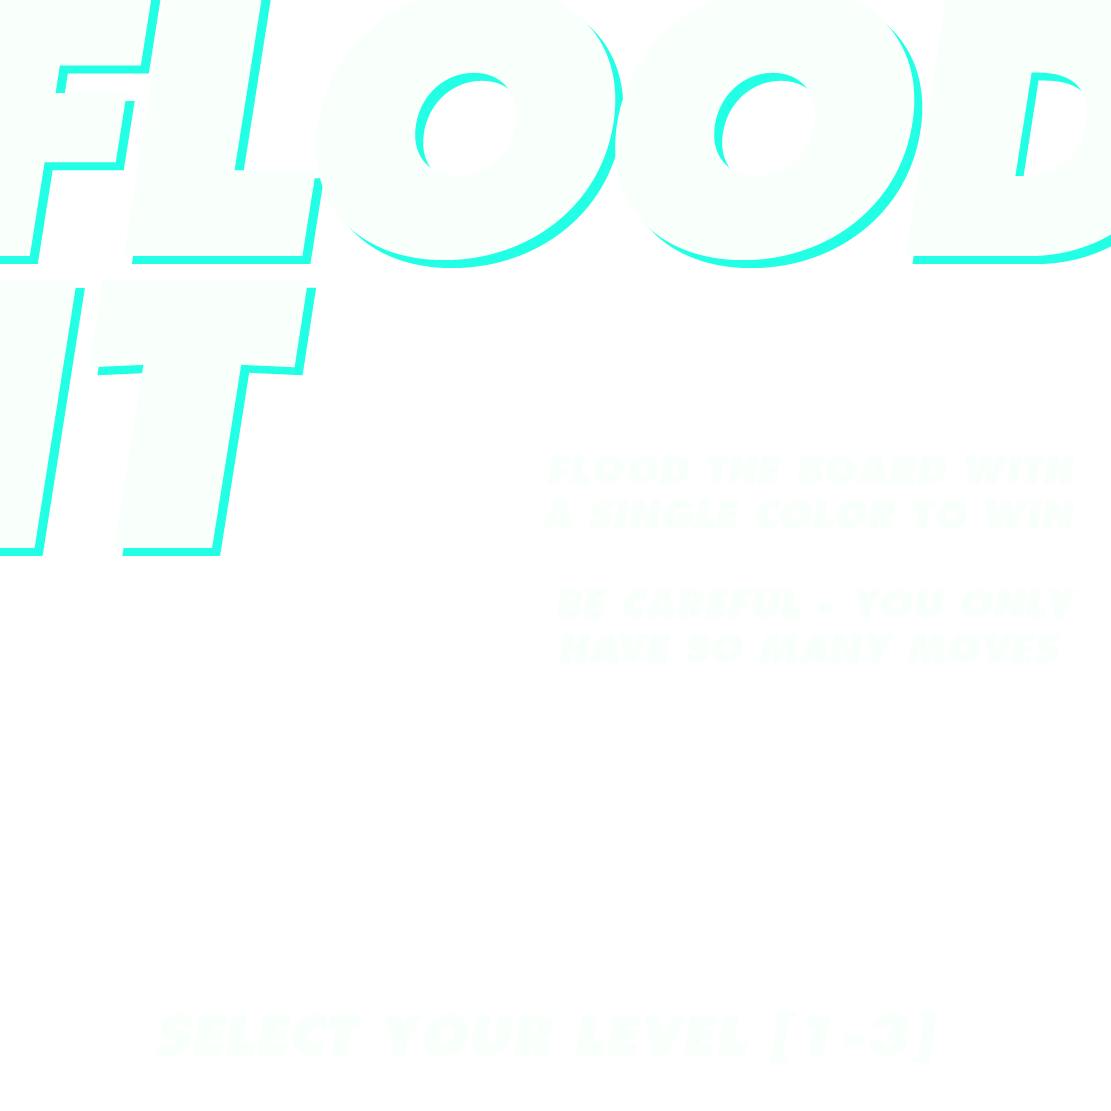
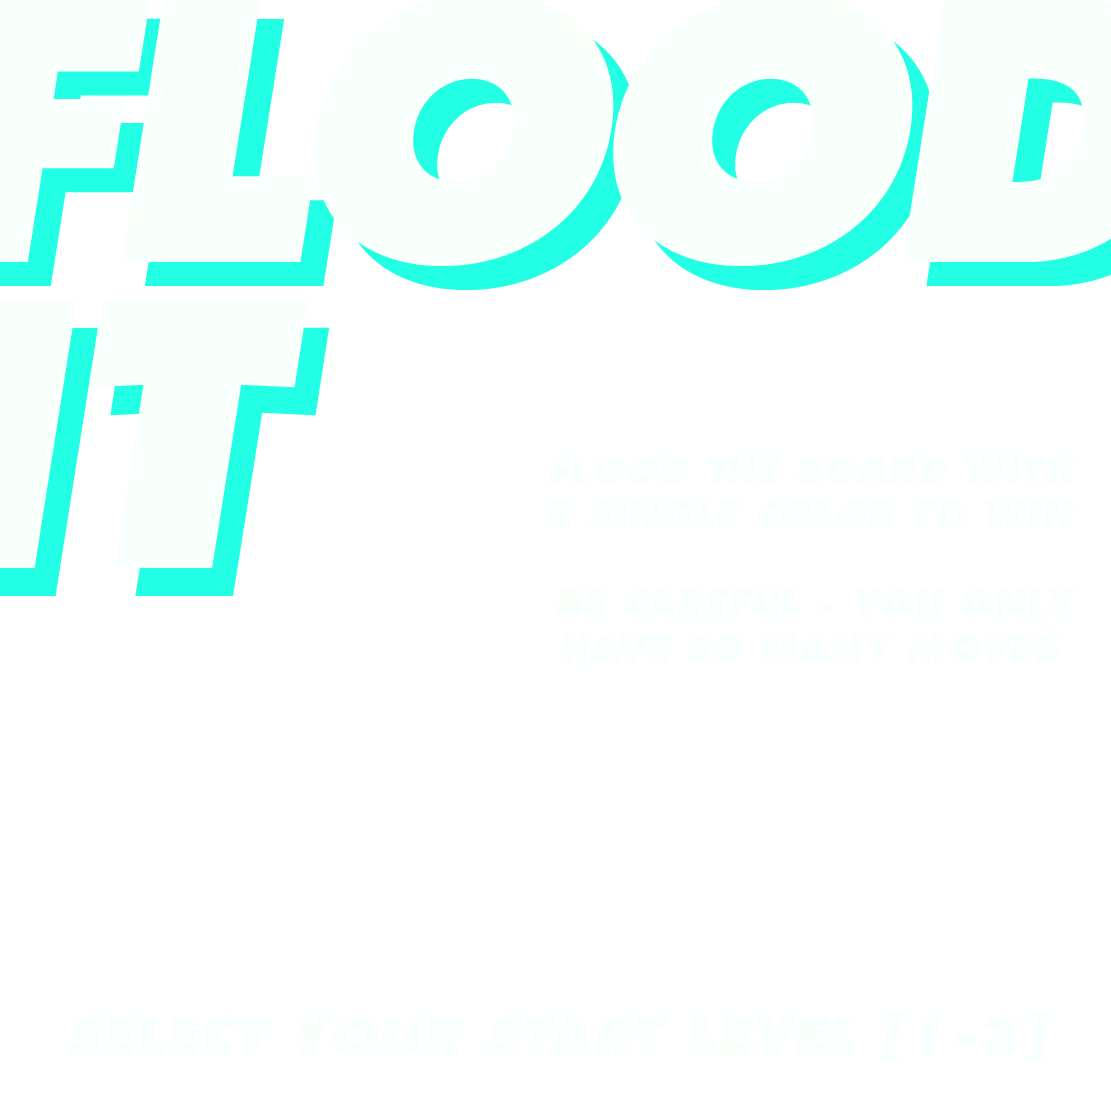
flood it: level termination

diff --git a/interactive/midterm/sketch.js b/interactive/midterm/sketch.js
@@ -3,28 +3,32 @@ var canvasWidth;
 var canvasHeight;
 
 var id = 1;
-var numColors = 6;
-var colors = [];
 var numSquaresPerRow = 13;
 var squares = [];
+var levelMoves;
 var remainingMoves;
 
+var numColors = 6;
+var colors = [];
+var colorsToAdd;
+var addIndex = 0;
+
 var state = 0;
-var startArt = [];
-var floodItArtwork;
-var startArtIndex = 0;
 var scoreOpacity = 255;
 var scoreSpeed = 7;
 
+var floodItArtwork;
+var youWinArtwork;
+var gameOverArtwork;
+
 var playerWins;
+var freeze;
 
 function preload(){
-    var startArtwork1 = loadImage("img/startArtwork-01.png");
-    var startArtwork2 = loadImage("img/startArtwork-02.png");
-    var startArtwork3 = loadImage("img/startArtwork-03.png");
-    var startArtwork4 = loadImage("img/startArtwork-04.png");
-    startArt = [startArtwork1, startArtwork2, startArtwork3, startArtwork4];
     floodItArtwork = loadImage("img/flood-it-overlay.png");
+    youWinArtwork = loadImage("img/you-win.png");
+    youWinArtwork = loadImage("img/you-win.png");
+    gameOverArtwork = loadImage("img/game-over.png");
 }
 
 function setup() {
@@ -32,6 +36,9 @@ function setup() {
     canvasHeight = windowHeight < windowWidth ? windowHeight-100 : windowWidth-100;
     canvasWidth = windowHeight < windowWidth ? windowHeight-100 : windowWidth-100;
     theCanvas = createCanvas(canvasWidth, canvasHeight);
+
+    //
+    colorsToAdd = [color('#D14674'), color('#15FF4C'), color('#C0C0FF'), color('#EDC500'), color('#680050'), color('#3A3A3A'), color('#440808')];
 
     // center canvas
     repositionCanvas();
@@ -96,26 +103,28 @@ function generateColors(){
 
 // when the game starts, play dancing squares animation and wait for the user to press spacebar
 function startScreen(){
-    dancingScreenAnimation();
+    numSquaresPerRow = 30;
+    dancingScreenAnimation(floodItArtwork);
     textSize(25);
     fill(255);
-    startArtIndex += .5;
-    // image(startArt[(Math.floor(startArtIndex)) % 4], 0, 0, canvasWidth, canvasHeight);
-    image(floodItArtwork, 0, 0, canvasWidth, canvasHeight);
+    freeze = false;
     if (keyIsDown(49)){
         numSquaresPerRow = 5;
+        levelMoves = 15;
         remainingMoves = 15;
         createBoard();
         state = 1;
     }
     else if (keyIsDown(50)){
         numSquaresPerRow = 10;
+        levelMoves = 25;
         remainingMoves = 25;
         createBoard();
         state = 1;
     }
     else if (keyIsDown(51)){
         numSquaresPerRow = 15;
+        levelMoves = 30;
         remainingMoves = 30;
         createBoard();
         state = 1;
@@ -123,10 +132,11 @@ function startScreen(){
 }
 
 // recreate the board and redraw it to create dancing animation
-function dancingScreenAnimation(){
+function dancingScreenAnimation(imageName){
     frameRate(7);
     createBoard();
     displaySquares();
+    image(imageName, 0, 0, canvasWidth, canvasHeight);
 }
 
 // ------------------ GAMEPLAY ----------------------------
@@ -205,13 +215,16 @@ function displaySquares() {
 }
 
 function mousePressed(){
-    var col = Math.floor(mouseX / (canvasWidth / numSquaresPerRow) );
-    var row = Math.floor(mouseY / (canvasHeight / numSquaresPerRow) );
-    var color = squares[row][col].color;
-
-    if (flood(color)){
-        remainingMoves--;
-        scoreOpacity = 255;
+    if (!freeze){
+        var col = Math.floor(mouseX / (canvasWidth / numSquaresPerRow) );
+        var row = Math.floor(mouseY / (canvasHeight / numSquaresPerRow) );
+        if (squares[row][col] != undefined){
+            var color = squares[row][col].color;
+            if (flood(color)){
+                remainingMoves--;
+                scoreOpacity = 255;
+            }
+        }
     }
 }
 
@@ -264,12 +277,32 @@ function movesExhausted(){
 // ------------------ POST-GAME ----------------------------
 function endGame(){
     if (playerWins){
-        dancingScreenAnimation();
+        dancingScreenAnimation(youWinArtwork);
+        if (keyIsDown(32)){
+            nextLevel();
+        }
     } else{
-        background(0);
+        playerLost();
     }
 }
 
+function nextLevel(){
+    numSquaresPerRow += 2;
+    levelMoves += 5;
+    remainingMoves = levelMoves;
+    colors.push(colorsToAdd[addIndex]);
+    addIndex++;
+    createBoard();
+    state = 1;
+}
+
+function playerLost(){
+    freeze = true;
+    image(gameOverArtwork, 0, 0, canvasWidth, canvasHeight);
+    if (keyIsDown(32)){
+        state = 0;
+    }
+}
 
 // ------------------ MISC ----------------------------
 
@@ -282,59 +315,3 @@ function repositionCanvas() {
 function windowResized() {
   repositionCanvas();
 }
-
-
-
-
-
-
-
-
-
-// for (var i = 0; i < numColors; i++){
-//     colors.push(color('hsl('+Math.floor((Math.random() * 360))+', 100%, 60%)'));
-// }
-
-// standardized
-// colors.push(color('hsla('+(  Math.floor((Math.random() * 50)) + 0  )  +', 100%, 60%, 0.09)'));
-// colors.push(color('hsla('+( Math.floor((Math.random() * 50)) + 100 )+', 100%, 60%, 0.09)'));
-// colors.push(color('hsla('+( Math.floor((Math.random() * 50)) + 200 )+', 100%, 60%, 0.09)'));
-// colors.push(color('hsla('+( Math.floor((Math.random() * 60)) + 300 )+', 100%, 60%, 0.09)'));
-
-// standardized
-// colors.push(color('hsl('+(  Math.floor((Math.random() * 22)) + 0  )  +', 100%, 60%)'));
-// colors.push(color('hsl('+( Math.floor((Math.random() * 40)) + 37 )+', 100%, 60%)'));
-// colors.push(color('hsl('+( Math.floor((Math.random() * 60)) + 161 )+', 100%, 60%)'));
-// colors.push(color('hsl('+( Math.floor((Math.random() * 30)) + 277 )+', 100%, 60%)'));
-// colors.push(color('hsl('+( Math.floor((Math.random() * 20)) + 340 )+', 100%, 60%)'));
-
-
-
-
-// function floodAnimation(s){
-//     console.log("animate!");
-//     displaySquares();
-// }
-
-
-// THIS FUNCTION DOES NOT WORK -- EXCEEDS CALL STACK
-// function checkAddToFill(s, oldColor, newColor){
-//     if (oldColor == newColor || s.color != oldColor) {
-//         return;
-//     }
-//
-//     s.inFlood = true;
-//
-//     if (s.left != null){
-//         checkAddToFill(s.left, oldColor, newColor);
-//     }
-//     if (s.right != null) {
-//         checkAddToFill(s.right, oldColor, newColor);
-//     }
-//     if (s.up != null) {
-//         checkAddToFill(s.up, oldColor, newColor);
-//     }
-//     if (s.down != null) {
-//         checkAddToFill(s.down, oldColor, newColor);
-//     }
-// }
